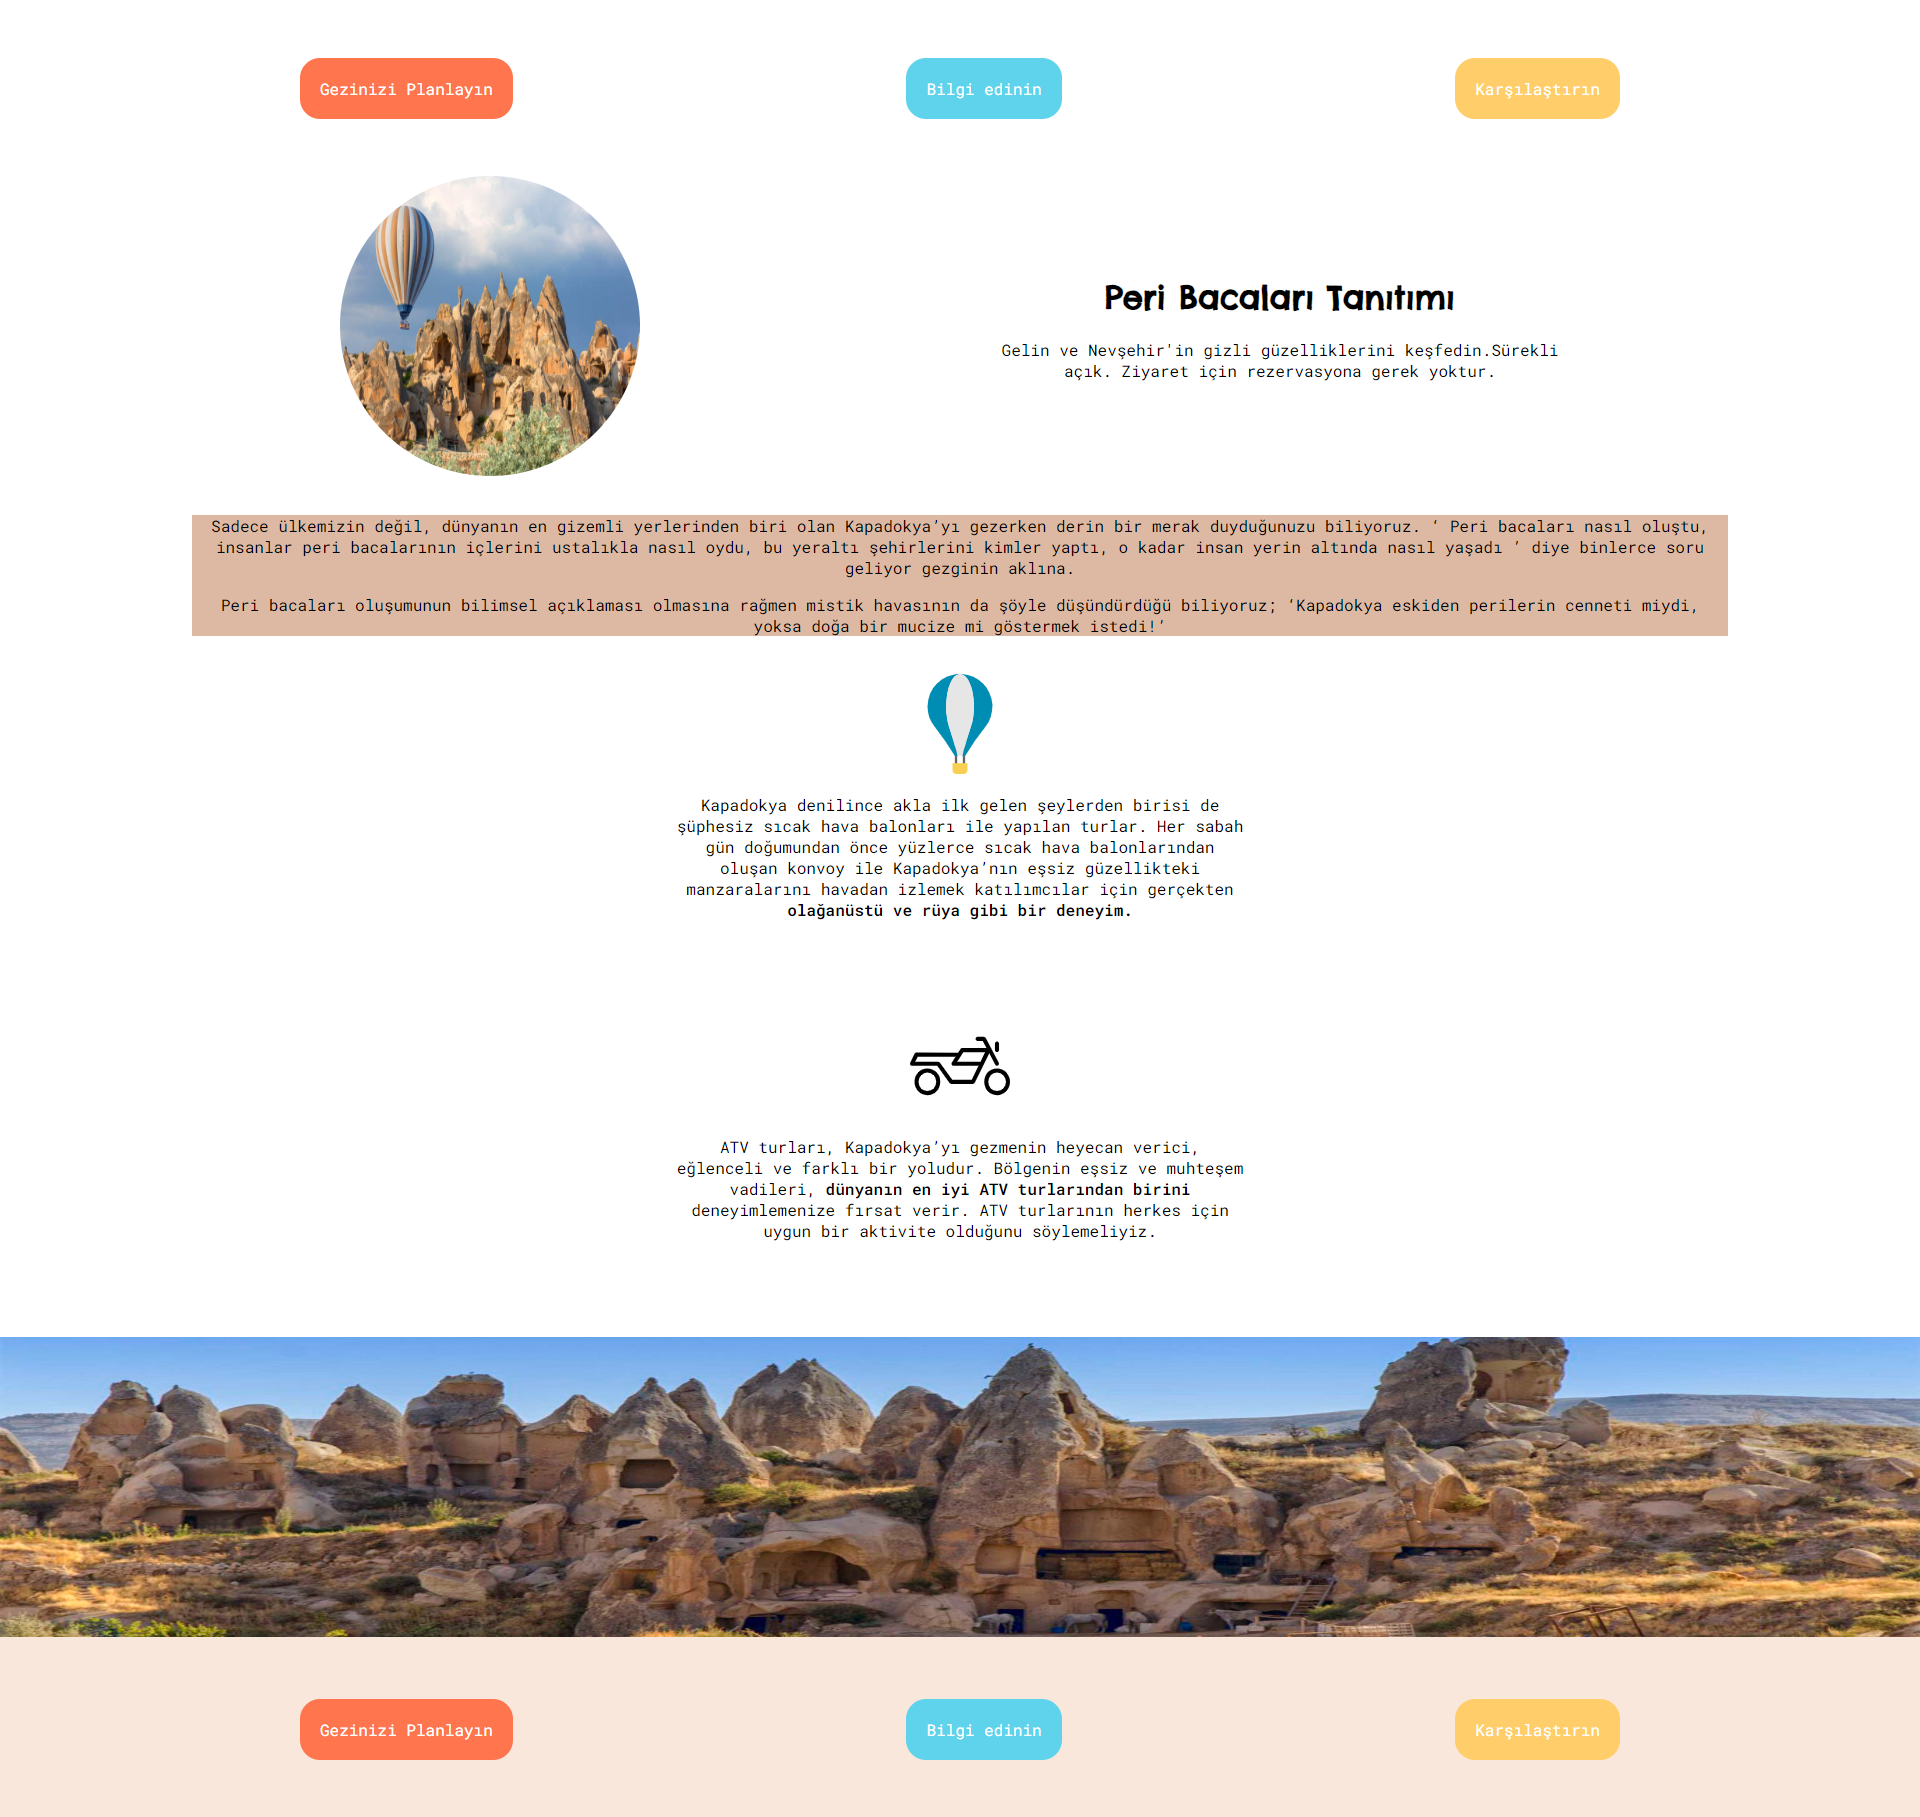
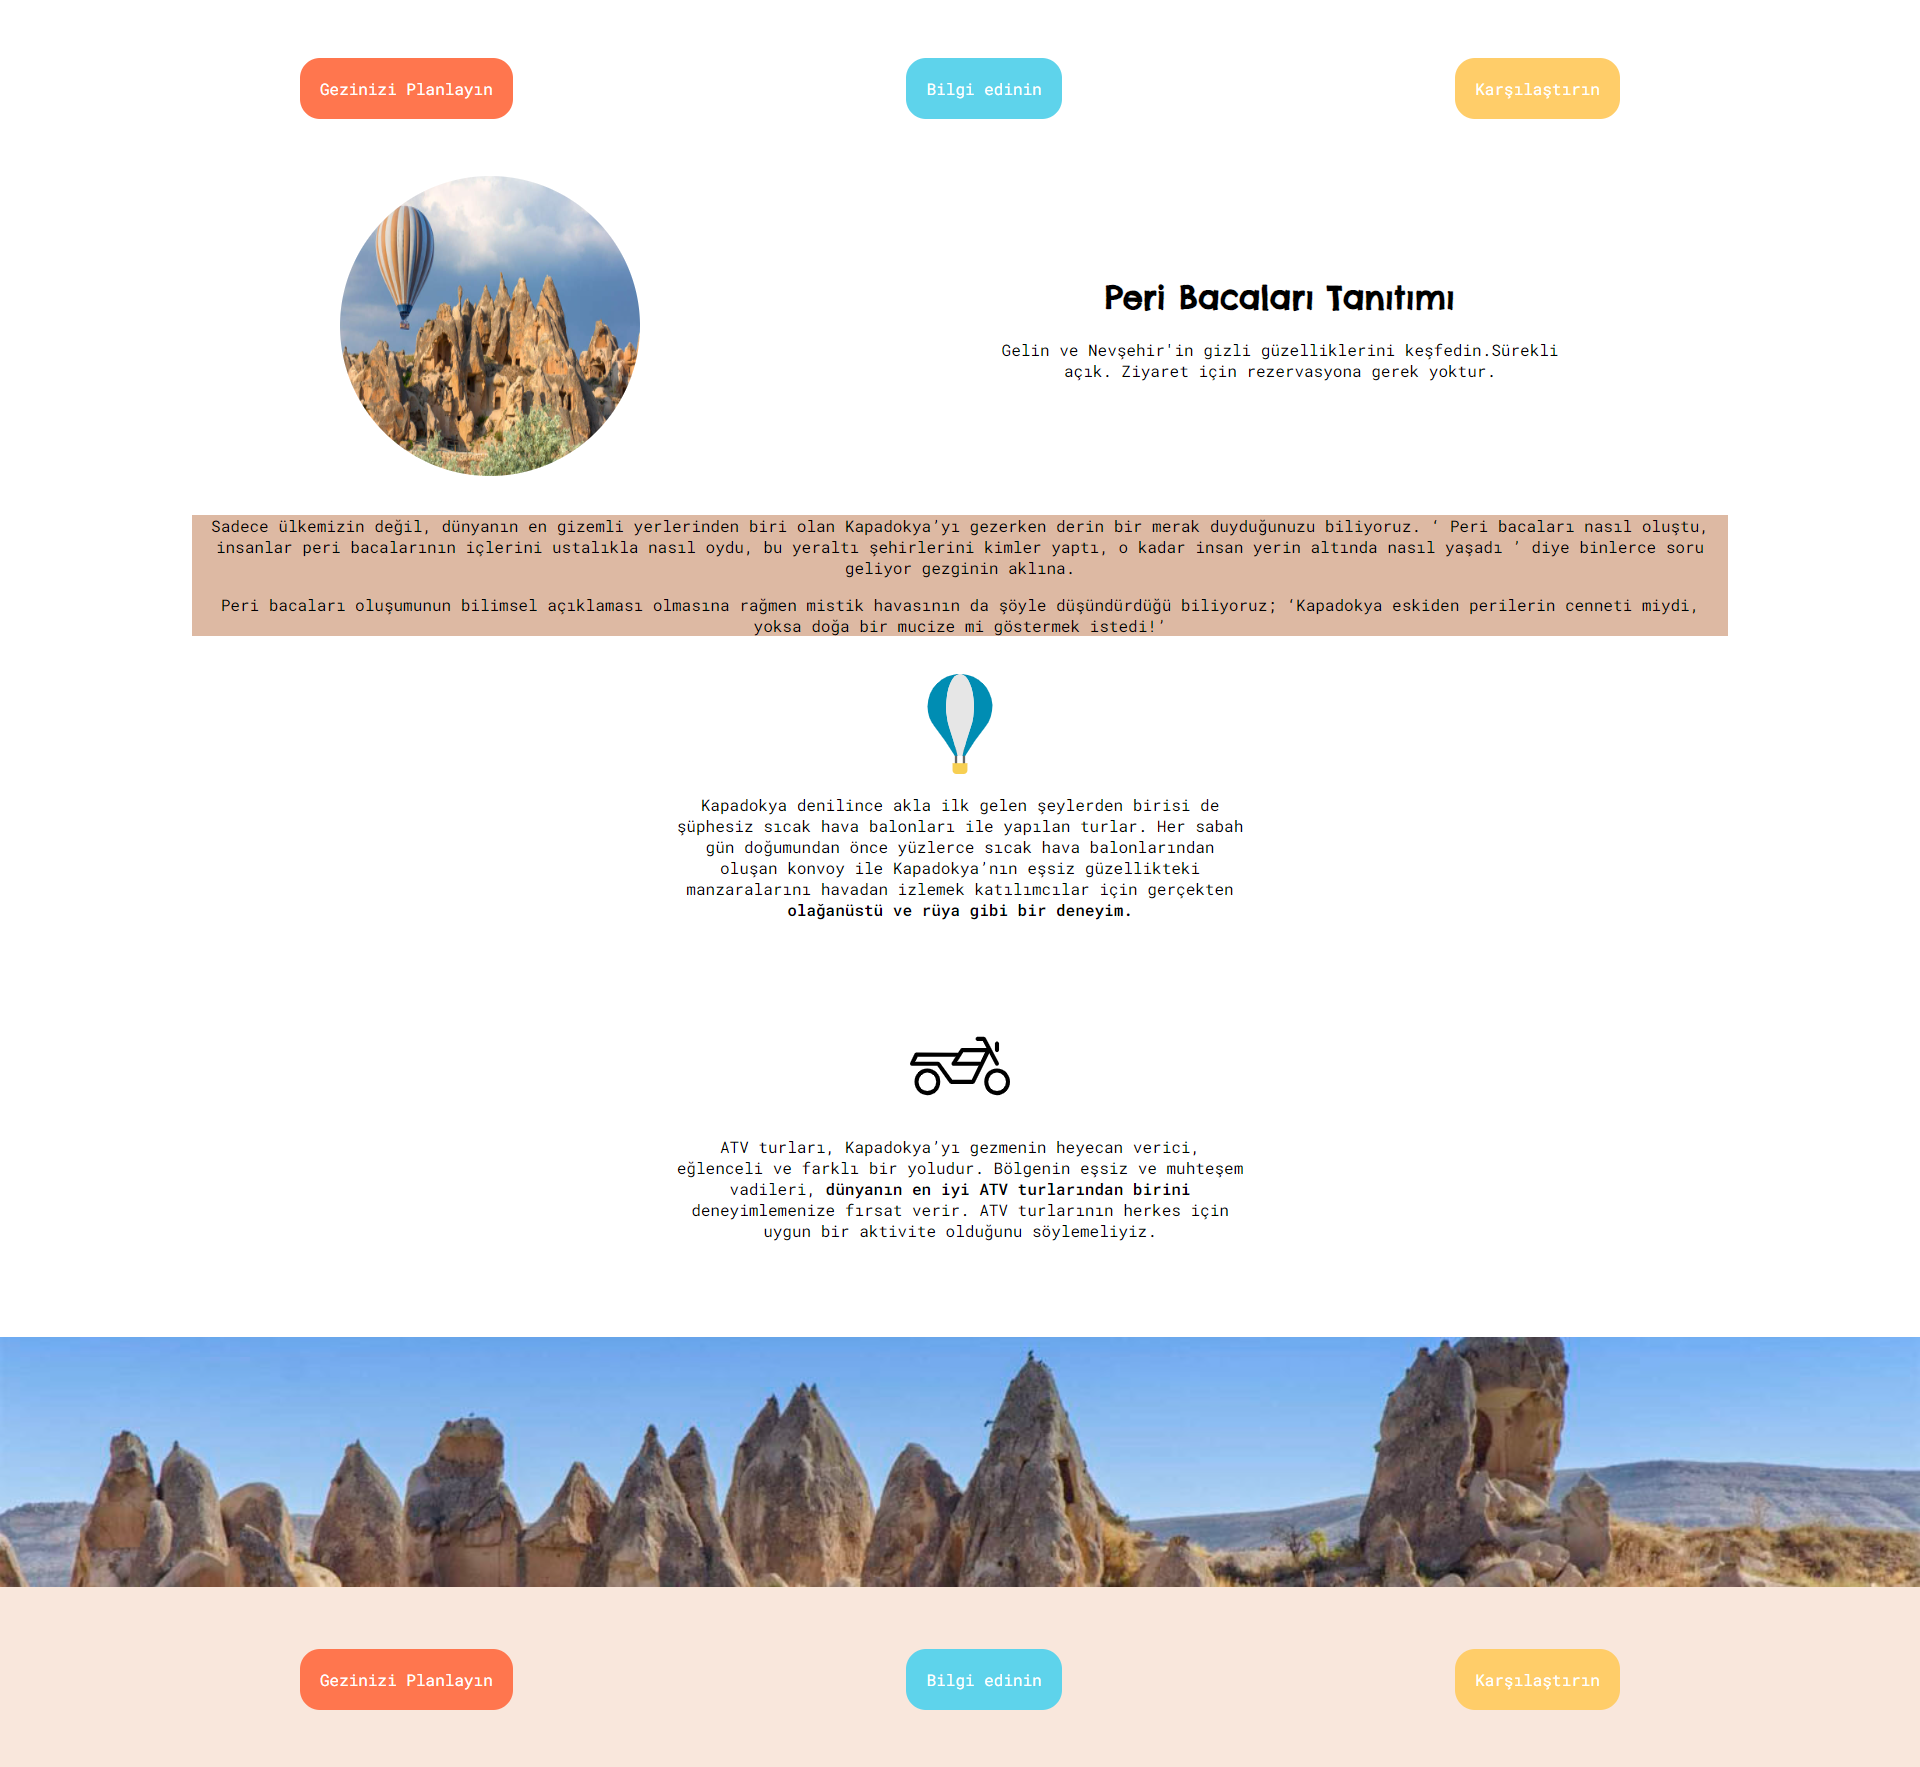
footer düzenlendi.

diff --git a/index.css b/index.css
@@ -82,7 +82,9 @@ main div .text h1 {
 
 footer img {
   width: 100%;
-  height: 300px;
+  height: 250px;
+  object-fit: cover;
+  object-position: top;
 }
 footer {
   background-color: #f9e7dc;
